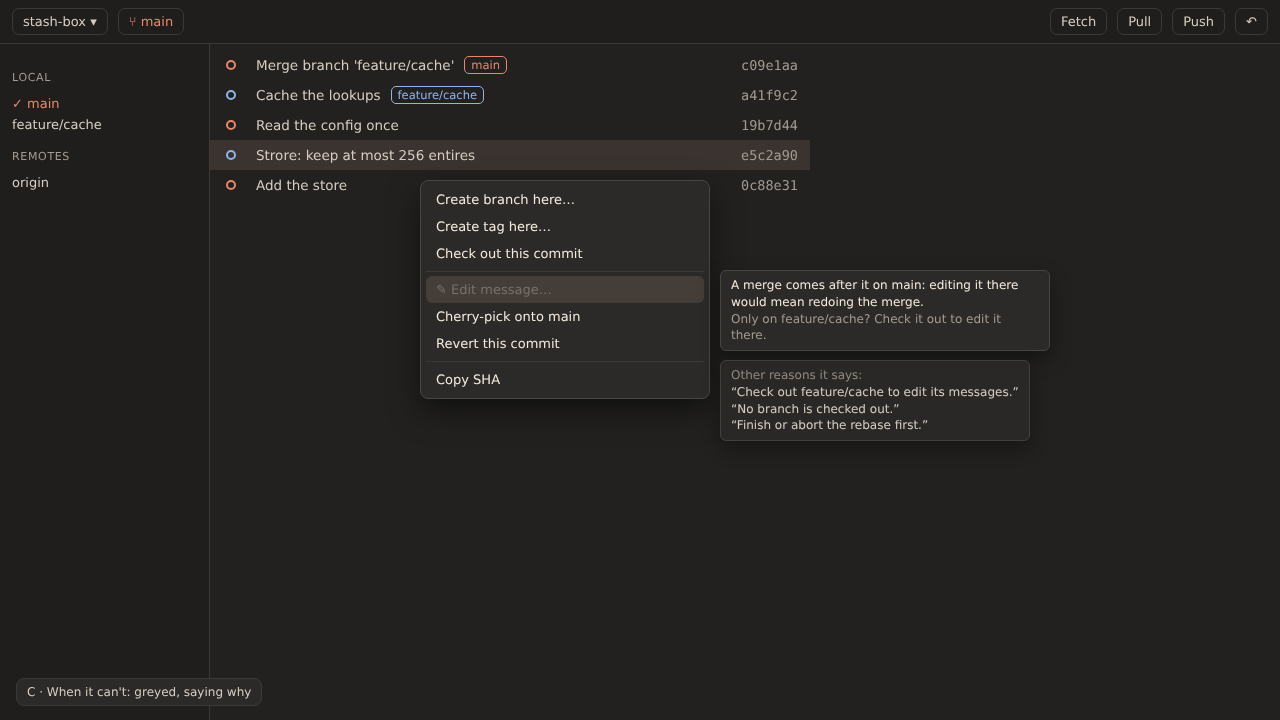
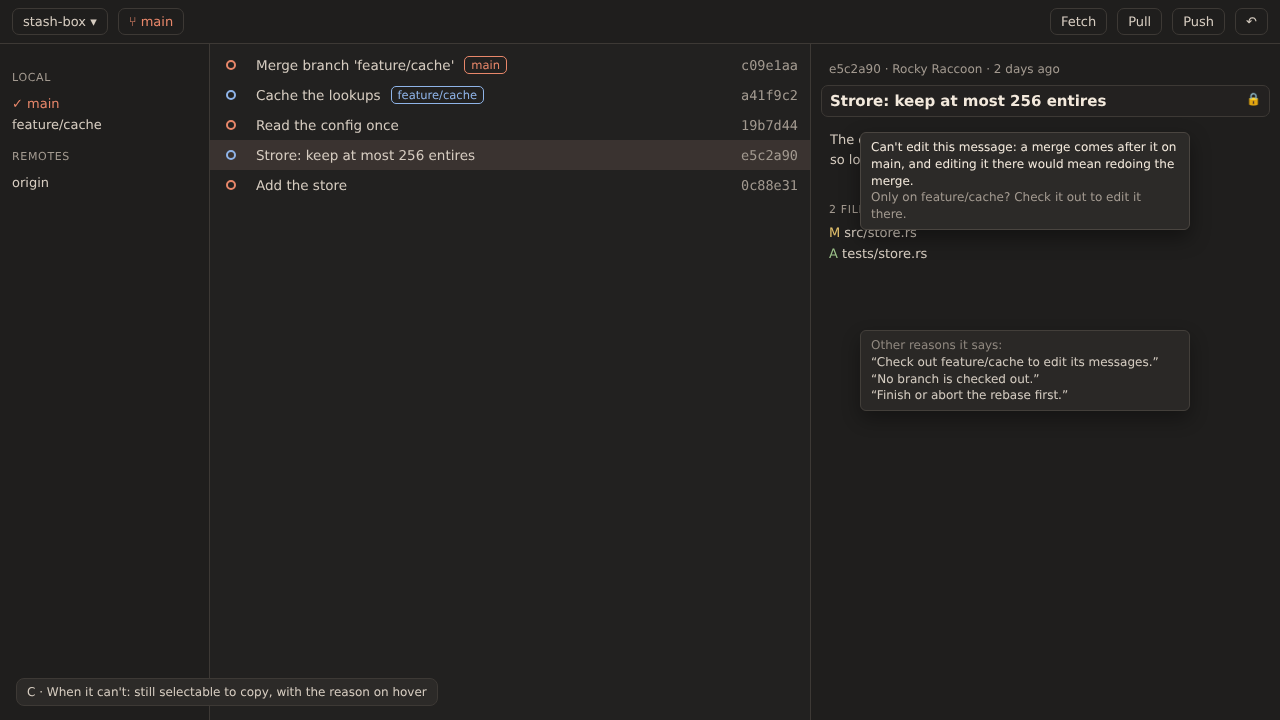
Edit message design: the message is always editable, with Apply once changed (#67)
The summary and description in a commit's details are fields at all
times, looking like text until pointed at. Once changed, Apply and Discard
appear with what applying will do; the edit is kept, marked, while looking
at other commits. Read-only with the reason when it can't be edited.

diff --git a/ROADMAP.md b/ROADMAP.md
@@ -193,15 +193,17 @@ A terminal inside Git Raccoon, under the graph, in the repository's folder: for 
 
 Mockups: [docs/design/edit-message](docs/design/edit-message). Asked for in [#67](https://github.com/Trashpanda-GameDev/Git-Raccoon/issues/67).
 
-Today the last commit's message can be changed with *Amend last commit*, and older ones with the interactive rebase planner's *Reword*, but only from the commit *below* the one to change. This makes it one step, where the message is shown.
+Today the last commit's message can be changed with *Amend last commit*, and older ones with the interactive rebase planner's *Reword*, but only from the commit *below* the one to change. Instead, a commit's message in its details is where you edit it.
 
-- [ ] **A. In place:** the commit's message in the details pane turns into its summary and body (as in the commit box, with the summary's length), **Save** (Ctrl+Enter) and **Cancel** (Esc). The graph stays as it is.
-- [ ] **B. Where:** right-click a commit › **Edit message…**; the **✎** beside a commit's message in its details; *Edit this commit's message* in the command palette.
-- [ ] **How it's done:** the checked-out commit is amended, message only (what's staged stays staged, not folded in); an older one on the checked-out branch is reworded by a one-step rebase (uncommitted changes put aside and back), the first commit of the repository too (`--root`). The edited commit stays selected under its new SHA.
-- [ ] **Said before saving:** already pushed ("Already on origin/main: afterwards you'll need to force-push"); the commits after it that get new SHAs ("Rewrites the 2 commits after it too"); and other branches with the commit ("feature/cache also has it and keeps the old message"), with **Move it too**, on by default, for local branches stacked on the edited one (Git's `--update-refs`).
-- [ ] **C. When it can't, it says why** (greyed, with the reason): a merge comes after it on the branch; it's only on another branch ("Check out feature/cache to edit its messages"); no branch is checked out; a merge, rebase or other operation is in progress. An empty summary can't be saved.
+- [ ] **A. Always editable:** a commit's summary and description in the details pane are fields at all times. They look like the text they are; pointing at them shows a faint frame ("Click to edit the message"). Selecting and copying works as before. Keys only go to them once clicked, so the graph's own keys are unaffected.
+- [ ] **B. Changed, then applied:** once the text differs from the commit's, **Apply** (Ctrl+Enter) and **Discard** (Esc) appear under it, with what applying will do, and the commit is marked "Edited, not applied" (with a dot on its row in the graph). Nothing changes until Apply; putting the text back as it was hides them again. An empty summary can't be applied.
+  - Looking at another commit keeps the edit, marked, until it's applied or discarded (not lost, not asked about).
+  - The right-click menu's *Edit message* and the palette's *Edit this commit's message* put the cursor in the summary.
+- [ ] **How it's applied:** the checked-out commit is amended, message only (what's staged stays staged, not folded in); an older one on the checked-out branch is reworded by a one-step rebase (uncommitted changes put aside and back), the first commit of the repository too (`--root`). The commit stays selected under its new SHA.
+- [ ] **Said before applying:** already pushed ("Already on origin/main: afterwards you'll need to force-push"); the commits after it that get new SHAs ("Rewrites the 2 commits after it too"); and other branches with the commit ("feature/cache also has it and keeps the old message"), with **Move it too**, on by default, for local branches stacked on the edited one (Git's `--update-refs`, Git 2.38 and later; with an older Git, said and left).
+- [ ] **C. When it can't be edited, it's read-only, saying why** on hover (🔒): a merge comes after it on the branch; it's only on another branch ("Check out feature/cache to edit its messages"); no branch is checked out; a merge, rebase or other operation is in progress. Working changes and stashes aren't commits to edit.
 - [ ] **D. Afterwards:** **Undo** puts it back ("Undo edit message"). Pushing a message that was already pushed gets Push's usual offer to force-push, always with lease.
-- [ ] **Several at once** stay in the interactive rebase planner: *Edit several? Interactive rebase…* opens it from the right commit.
+- [ ] **Several at once** stay in the interactive rebase planner.
 - [ ] **For agents:** an *edit a commit's message* tool, asking first, as other changes do.
 - Later: editing a commit on a branch that isn't checked out (in a temporary worktree); keeping merges after it (`--rebase-merges`); editing the author.
 
